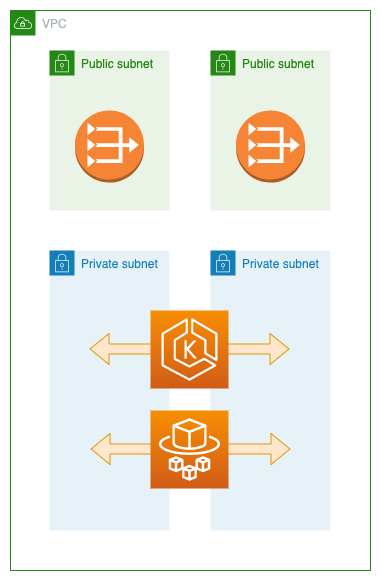
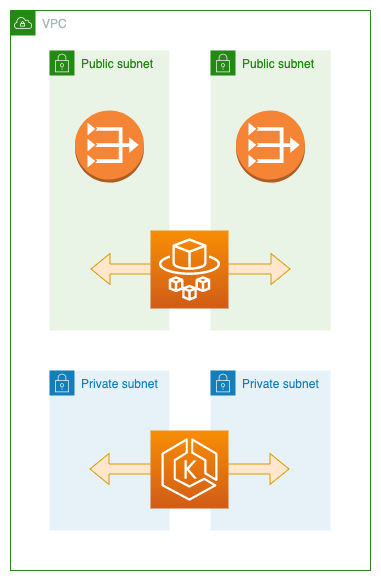
fix issue with diagram and description

Changed region(s): [[0.1155, 0.3408, 0.8661, 0.8985]]

diff --git a/README.md b/README.md
@@ -29,6 +29,9 @@ The deployment will require the aws-cli and the terraform-backend to be configur
 
 The given solution will deploy a basic node.js application into an EKS and an ECS cluster. The ECS cluster will utilize Fargate to run the containers in a serverless environment. The same could be done in EKS, but I wanted to show the journey from classic k8s into a serverless AWS native solution.
 
+The EKS cluster will be deployed in a private subnet which can access the internet through a NAT gateway. The cluster spans over 2 availability zones. Additional services like loadbalancers are not explicitly deployed, but will be created automatically by EKS when using a service of the type `LoadBalancer`.
+The ECS service will be directly exposed with a public IP and be deployed into the public subnets.
+
 ![diagram](diagram.png)
 
 
